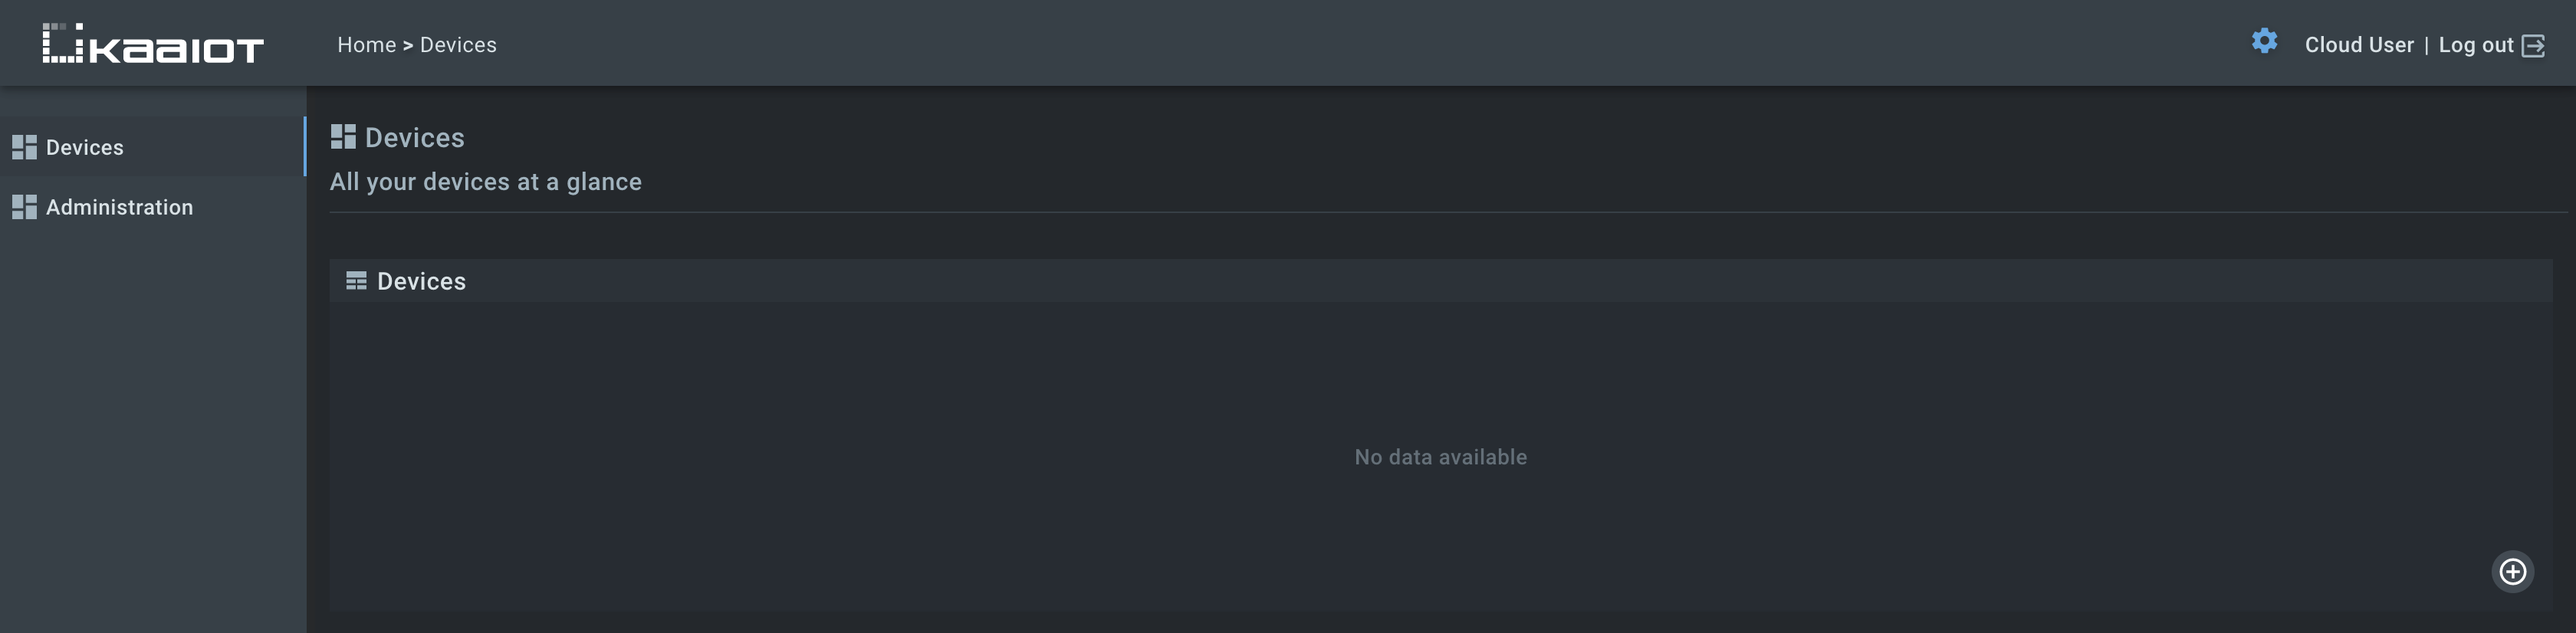
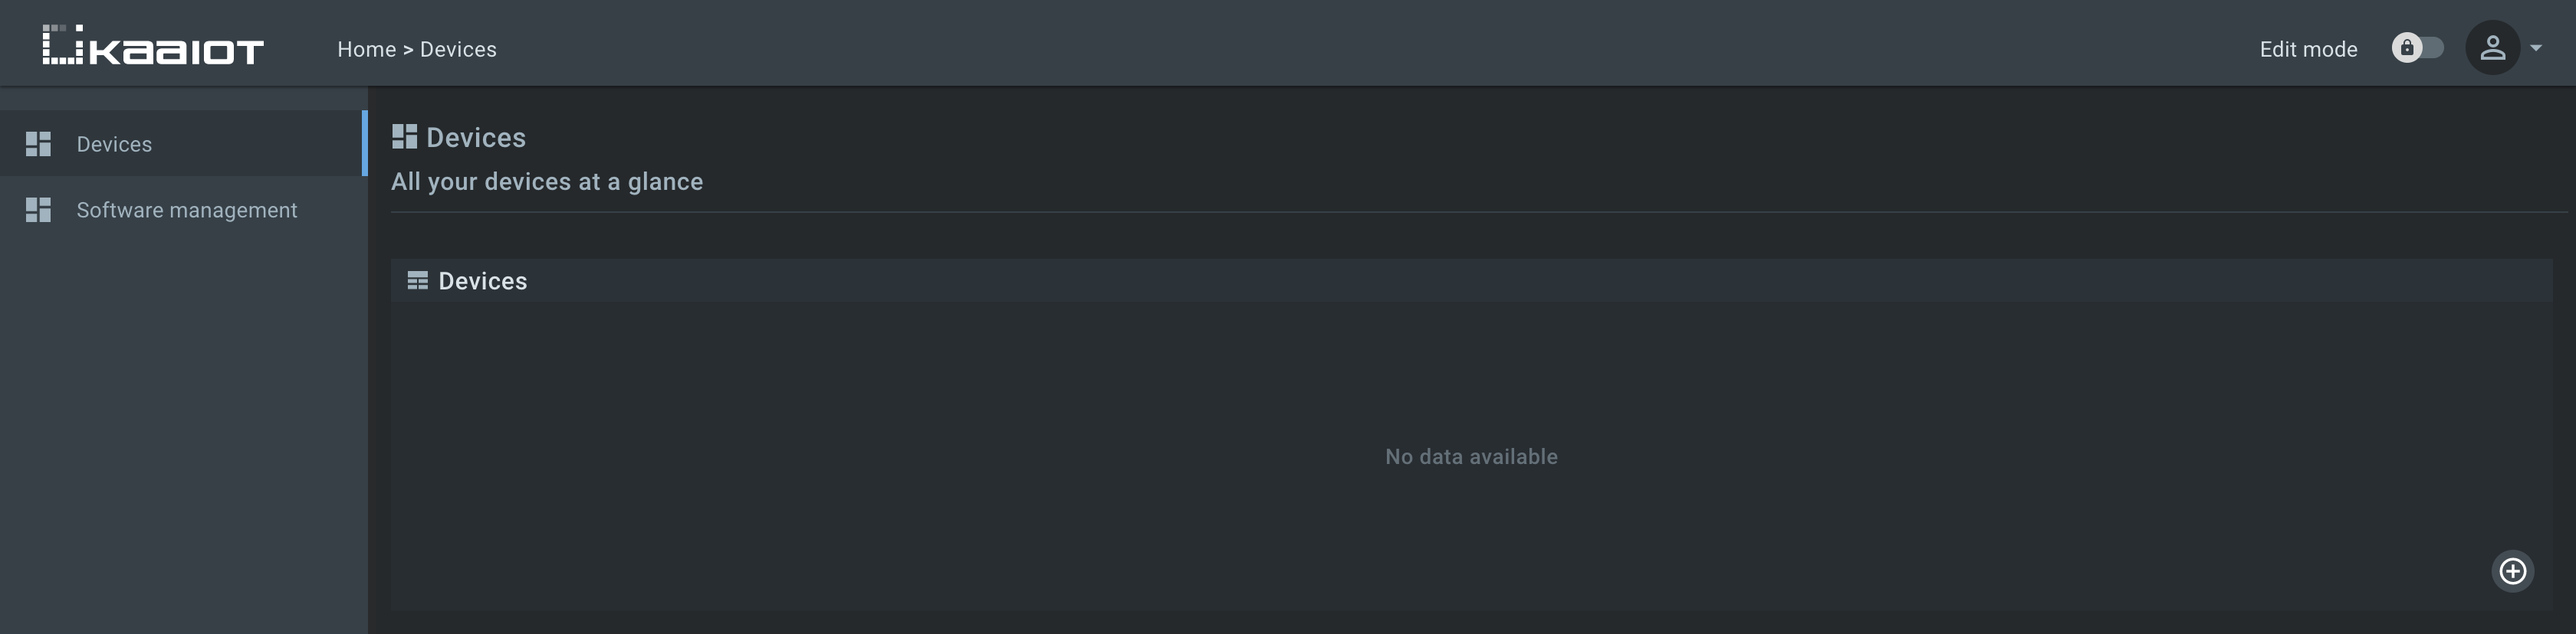
update Kaa Cloud getting started

diff --git a/doc/Tutorials/getting-started-kaa-cloud/attach/code/client.py b/doc/Tutorials/getting-started-kaa-cloud/attach/code/client.py
@@ -10,11 +10,14 @@ import time
 
 import paho.mqtt.client as mqtt
 
-DEFAULT_KPC_HOST = "cloud.kaaiot.net"  # Platform host goes here
-DEFAULT_KPC_PORT = 1883  # Platform port goes here
+DEFAULT_KPC_HOST = "cloud.kaaiot.com"  # Platform host goes here
+DEFAULT_KPC_PORT = 30900  # Platform port goes here
 
 DCX_INSTANCE_NAME = "dcx"
 EPMX_INSTANCE_NAME = "epmx"
+CEX_INSTANCE_NAME = "cex"
+
+HEALTH_CHECK_COMMAND_TYPE = "HEALTH_CHECK"
 
 
 def load_json(path):
@@ -57,7 +60,7 @@ token = args.token
 client_id = ''.join(random.choice(string.ascii_uppercase + string.digits) for _ in range(6))
 host = args.host
 port = args.port
-logger.info("Using EP token {0}, server at {1}:{2}".format(token, host, port))
+logger.info("Using endpoint token {0}, server at {1}:{2}".format(token, host, port))
 
 
 def connect_to_server(client, host, port):
@@ -91,7 +94,7 @@ def compose_metadata():
     return json.dumps(
         {
             "serial": "00-14-22-01-23-45",
-            "mac": "50:8c:b1:77:e:e6"
+            "mac": "50:8c:b1:77:e8:e6"
         }
     )
 
@@ -128,6 +131,56 @@ def compose_data_sample(location, battery_level):
     return json.dumps(data_sample)
 
 
+def compose_log_data_sample():
+    data_sample = [
+        {
+            "log": "Endpoint health status: OK"
+        }
+    ]
+    return json.dumps(data_sample)
+
+
+# COMMAND section ----------------------------------------
+# LOG COMMAND section ------------------------------------
+topic_command_health_check = "kp1/{application_version}/{service_instance}/{resource_path}".format(
+    application_version=appVersionName,
+    service_instance=CEX_INSTANCE_NAME,
+    resource_path="{token}/command/{command}/status".format(token=token, command=HEALTH_CHECK_COMMAND_TYPE),
+)
+logger.debug("Composed command log topic: {}".format(topic_command_health_check))
+
+
+topic_command_result_log = "kp1/{application_version}/{service_instance}/{resource_path}".format(
+    application_version=appVersionName,
+    service_instance=CEX_INSTANCE_NAME,
+    resource_path="{token}/result/{command}".format(token=token, command=HEALTH_CHECK_COMMAND_TYPE),
+)
+logger.debug("Composed command result log topic: {}".format(topic_command_result_log))
+
+
+def log_command_handler(client, userdata, message):
+    """
+    Handles HEALTH_CHECK command
+    """
+    logger.info("Received HEALTH_CHECK command: topic [{}]\nbody [{}]".format(message.topic, str(message.payload.decode("utf-8"))))
+    command_result = compose_command_result_payload(message)
+    client.publish(topic=topic_command_result_log, payload=command_result)
+    logger.info("Published HEALTH_CHECK command result: topic [{}]\nbody [{}]".format(topic_command_result_log, str(command_result.decode("utf-8"))))
+    log_data_sample_payload = compose_log_data_sample()
+    client.publish(topic=topic_data_collection, payload=log_data_sample_payload)
+
+
+def compose_command_result_payload(message):
+    command_payload = json.loads(str(message.payload.decode("utf-8")))
+    command_result_list = []
+    for command in command_payload:
+        command_result = {"id": command['id'], "statusCode": 200, "payload": "done"}
+        command_result_list.append(command_result)
+    return json.dumps(
+        command_result_list
+    )
+
+
 def on_message(client, userdata, message):
     """
     Logs MQTT messages received from the server.
@@ -139,6 +192,7 @@ def on_message(client, userdata, message):
 # Initiate server connection
 client = mqtt.Client(client_id=client_id)
 client.on_message = on_message
+client.message_callback_add(topic_command_health_check, log_command_handler)
 connect_to_server(client=client, host=host, port=port)
 # Start the loop
 client.loop_start()
@@ -173,6 +227,6 @@ while 1:
     else:
         logger.debug("{0}: Sent next data sample: {1}".format(token, payload))
 
-    time.sleep(3)
+    time.sleep(10)
     location_index = location_index + 1
     battery_level = battery_level - 0.3

diff --git a/doc/Tutorials/iot-data-collection/attach/code/client.py b/doc/Tutorials/iot-data-collection/attach/code/client.py
@@ -52,7 +52,7 @@ token = args.token
 client_id = ''.join(random.choice(string.ascii_uppercase + string.digits) for _ in range(6))
 host = args.host
 port = args.port
-logger.info("Using EP token {0}, server at {1}:{2}".format(token, host, port))
+logger.info("Using endpoint token {0}, server at {1}:{2}".format(token, host, port))
 
 
 def connect_to_server(client, host, port):

diff --git a/doc/Tutorials/connect-device-to-iot-platform/attach/code/client.py b/doc/Tutorials/connect-device-to-iot-platform/attach/code/client.py
@@ -34,7 +34,7 @@ token = args.token
 client_id = ''.join(random.choice(string.ascii_uppercase + string.digits) for _ in range(6))
 host = args.host
 port = args.port
-logger.info("Using EP token {0}, server at {1}:{2}".format(token, host, port))
+logger.info("Using endpoint token {0}, server at {1}:{2}".format(token, host, port))
 
 
 # Returns hard-coded metadata

diff --git a/doc/Tutorials/getting-started-kaa-cloud/index.md b/doc/Tutorials/getting-started-kaa-cloud/index.md
@@ -7,7 +7,7 @@ sort_idx: 5
 
 {% include variables.md %}
 {% include_relative links.md %}
-{% assign kaa_cloud_url = "https://cloud.kaaiot.net" %}
+{% assign kaa_cloud_url = "https://cloud.kaaiot.com" %}
 {% assign code_url = "https://github.com/kaaproject/kaa/tree/master/doc/Tutorials/getting-started-kaa-cloud/attach/code" %}
 
 * TOC
@@ -16,72 +16,154 @@ sort_idx: 5
 
 ## Overview
 
-<!--todo: return link to cloud-->
-In this tutorial we will look at how to get started with Kaa Cloud:
-1. How to connect a [device simulator]({{code_url}}/client.py) to the Kaa Cloud server.
-2. How to send and visualize device simulated data in [Web Dashboard](https://docs.kaaiot.io/WD/docs/current/Overview/).
+In this tutorial, we will look at how to get started with the [Kaa Cloud]({{kaa_cloud_url}}) in two simple steps:
+1. Connect a [device simulator]({{code_url}}/client.py) to the Kaa Cloud server.
+2. Send and visualize the device simulated data on [Web Dashboard][WD].
 
 
 ## Prerequisites
-<!--todo: return link to cloud-->
-1. You have an account on Kaa Cloud.
-3. [Python 2.7](https://www.python.org/download/releases/2.7/) is installed on your machine.
+
+1. You have an account on the [Kaa Cloud]({{kaa_cloud_url}}).
+2. [Python 2.7](https://www.python.org/download/releases/2.7/) is installed on your machine.
 
 
 ## Playbook
-<!--todo: return link to cloud-->
-**1**. Let's go to devices dashboard in your Kaa Cloud account.
+
+To help you get started with the Kaa Cloud real quick, we've created a [Python simulator]({{code_url}}/client.py) that connects to the platform and simulates a real device behavior, as follows: 
+
+**1**. The simulator sends the following metadata to the platform on its start.
+
+```json
+{
+    "serial": "00-14-22-01-23-45",
+    "mac": "50:8c:b1:77:e8:e6"
+}
+```
+
+**2**. The simulator sends telemetry data of the following format every 10 seconds.
+
+```json
+{
+    "timestamp": 1569836796860,
+    "temperature": 23,
+    "log": "Randomly generated string: YjZgn3IbM6",
+    "latitude": 37.34929,
+    "longitude": -122.03247,
+    "battery_level": 78.7
+}
+```
+
+where: 
+- `timestamp` - the current timestamp;
+- `temperature` - a random number in the range of 20-25;
+- `log` - a string with a randomly generated last part;
+- `latitude` - latitude taken from the [file]({{code_url}}/location.json);
+- `longitude` - longitude taken from the [file]({{code_url}}/location.json);
+- `battery_level` - a number in the range of 0-100.
+
+**3**. The simulator listens to the `HEALTH_CHECK` [command][commands] and responds with the following telemetry data upon receiving it.
+
+```json
+{
+    "log": "Endpoint health status: OK"
+}
+```
+
+<br/>
+
+By default, a Kaa Cloud account is shipped with the preconfigured dashboards and widgets that visualize the above simulator data.
+Also, the account includes pre-provisioned [endpoint filters]({{docs_url}}EPR/docs/current/Key-service-features/Ep-filters/) and [software (firmware) definitions][ota].
+
+<br/>
+
+Now let's proceed with the instructions to get you going.
+
+**1**. Go to the "Devices" dashboard in your [Kaa Cloud account]({{kaa_cloud_url}}).
 
 ![Devices dashboard](attach/img/devices-dashboard.png)
 
-As you can see from empty [Endpoint List widget]({{docs_url}}/WD/docs/current/Widgets/Ep-list/), there are no connected devices yet. 
+As you can see from the empty [Endpoint List widget]({{docs_url}}WD/docs/current/Widgets/Ep-list/), there are no connected devices yet. 
 Let's connect one.
 
-**2**. Clone device simulator from [here]({{code_url}}).
+<br/>
+
+**2**. Clone the device simulator from [here]({{code_url}}).
 
 The simulator consists of two files: 
-- [client.py]({{code_url}}/client.py) - device simulator code written in Python 2.7.
-- [location.json]({{code_url}}/location.json) - geographical location data for device live location simulation.
+- [client.py]({{code_url}}/client.py) - the device simulator code written in Python 2.7.
+- [location.json]({{code_url}}/location.json) - geographical location data for the device live location simulation.
 
 **Both files must be placed together in one directory.**
 
-**3**. Register device digital twin, which is called "[endpoint][endpoint]" in Kaa terminology, in Kaa Cloud.
+<br/>
 
-![Device creation. First step](attach/img/device-creation-1.png)
+**3**. Register the device digital twin. It's called "[endpoint][endpoint]" in Kaa.
 
-Enter the desired endpoint token, device name and description. You will use the token in a bit to connect your device. You can leave the token empty and let Kaa generate one for you.
-  
+![Device creation. The first step](attach/img/device-creation-1.png)
+
+<br/>
+
+**4**. Enter the desired [endpoint token][endpoint-token], device name, and description. 
+
 ![Device creation. Second step](attach/img/device-creation-2.png)
 
-Remember the endpoint token – we will need it later.
+<br/>
 
-![Device creation. Third step](attach/img/device-creation-3.png)
+**5**. Remember or save the endpoint token in some file because **you won't be able to see it again in the future**.
+We will use the token in a bit to connect the simulator.
 
-**4**. Go to the dashboard of the just created endpoint and copy its application version.
+![Device creation. The third step](attach/img/device-creation-3.png)
 
-![Device dashboard](attach/img/device-dashboard-not-connected-simulator.png)
+<br/>
 
-**5**. Run the cloned simulator from a terminal.
+**6**. Go to the dashboard of the recently created endpoint and copy its [application version][application].
 
-Enter the directory with the cloned simulator (where `client.py` and `location.json` files are located). 
-Enter the next command replacing `{mySecretToken}` and `{myAppVersionName}` with your token and application version name respectively:
+![Copy device application version](attach/img/device-application-version.png)
+
+<br/>
+
+**7**. Run the cloned simulator from a terminal.
+
+Enter the directory with the cloned simulator (where `client.py` and `location.json` are located). 
+Enter the following command replacing `{mySecretToken}` and `{myAppVersionName}` with your endpoint token and application version name, respectively.
 
 ```bash
 $ python --token {mySecretToken} --appVersionName {myAppVersionName} client.py
 ```
 
-After hitting the command you should see simulator logs.
+After launching the above command, you should see the simulator logs.
 
-![Simulator logs](attach/img/simulator-logs.png)
+```text
+INFO: Using endpoint token myToken, server at cloud.kaaiot.com:30900
+DEBUG: Composed data collection topic: kp1/6bf4ad4c-e3aa-4641-afc8-5c0f6f1f7ed16-v1/dcx/myToken/json/47
+INFO: Connecting to KPC instance at cloud.kaaiot.com:30900...
+INFO: Successfully connected
+INFO: Sent metadata: {"serial": "00-14-22-01-23-45", "mac": "50:8c:b1:77:e:e6"}
 
-**6**. Go back to dashboard of the just connected endpoint and view simulated data.
+DEBUG: myToken: Sent next data sample: [{"battery_level": 100.0, "temperature": 20, "timestamp": 1568807610661, "longitude": -122.03248, "latitude": 37.35119, "log": "Randomly generated string: UOL759IEKH"}]
+INFO: Message received: topic [kp1/6bf4ad4c-e3aa-4641-afc8-5c0f6f1f7ed16-v1/dcx/myToken/json/47/status]
+body []
+DEBUG: myToken: Sent next data sample: [{"battery_level": 100.0, "temperature": 23, "timestamp": 1568807613666, "longitude": -122.03247, "latitude": 37.35077, "log": "Randomly generated string: QP3F8T7QJS"}]
+INFO: Message received: topic [kp1/6bf4ad4c-e3aa-4641-afc8-5c0f6f1f7ed16-v1/dcx/myToken/json/47/status]
+body []
+```
 
-![Device dashboard of connected simulator](attach/img/device-dashboard-connected-simulator.png)
+<br/>
 
+**8**. Go back to the dashboard of the recently connected endpoint and view the simulated data.
+
+![Device dashboard of connected simulator](attach/img/visualized-device-data.png)
+
+<br/>
 
 Congratulations, you have connected your first device simulator to the Kaa Cloud! We encourage you to experiment with the simulator source code, modify the dashboards, and get back to us with the feedback!
 
+<br/>
+
+Explore the "Software management" dashboard and get acquainted with its capabilities. 
 
 ## Next steps
 
-- [Data collection tutorial][data collection tutorial]. 
+- [Communication][communication] - find out what is under the hood of the Kaa platform communication layer.
+- [Device management][identity] - learn how the Kaa platform device management feature works.
+- [Data collection][data collection] - learn how the Kaa platform data collection feature works.

diff --git a/doc/Tutorials/connect-device-to-iot-platform/index.md b/doc/Tutorials/connect-device-to-iot-platform/index.md
@@ -76,7 +76,7 @@ Add `meterDescription` field to the endpoint creation form. We will fill it out 
 ```
 python -t myToken -h {host} -p {port} client.py
 
-INFO: Using EP token myToken, server at {host}
+INFO: Using endpoint token myToken, server at {host}
 DEBUG: Composed metadata topic: kp1/demo_application_v1/epmx/myToken/update/keys
 INFO: Connecting to KPC instance at {host}:{port}...
 INFO: Successfully connected

diff --git a/doc/Tutorials/iot-data-collection/index.md b/doc/Tutorials/iot-data-collection/index.md
@@ -97,7 +97,7 @@ that simulates our vehicle.
 ```
 python -t myToken -h {host} -p {port} client.py
 
-INFO: Using EP token myToken, server at {host}:{port}
+INFO: Using endpoint token myToken, server at {host}:{port}
 DEBUG: Composed data collection topic: kp1/demo_application_v1/dcx/myToken/json/23
 INFO: Connecting to KPC instance at {host}:{port}...
 INFO: Successfully connected
